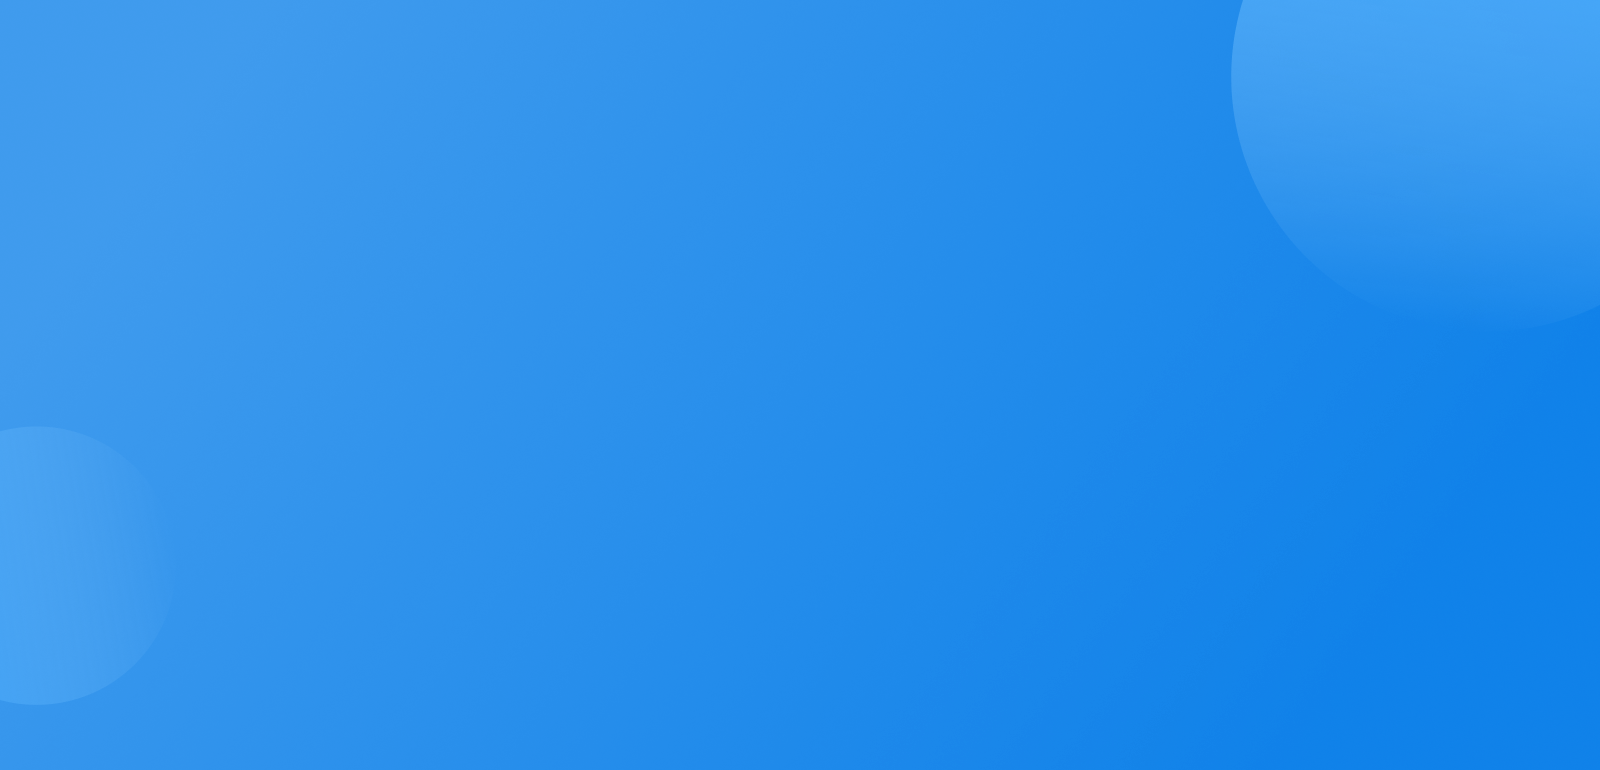
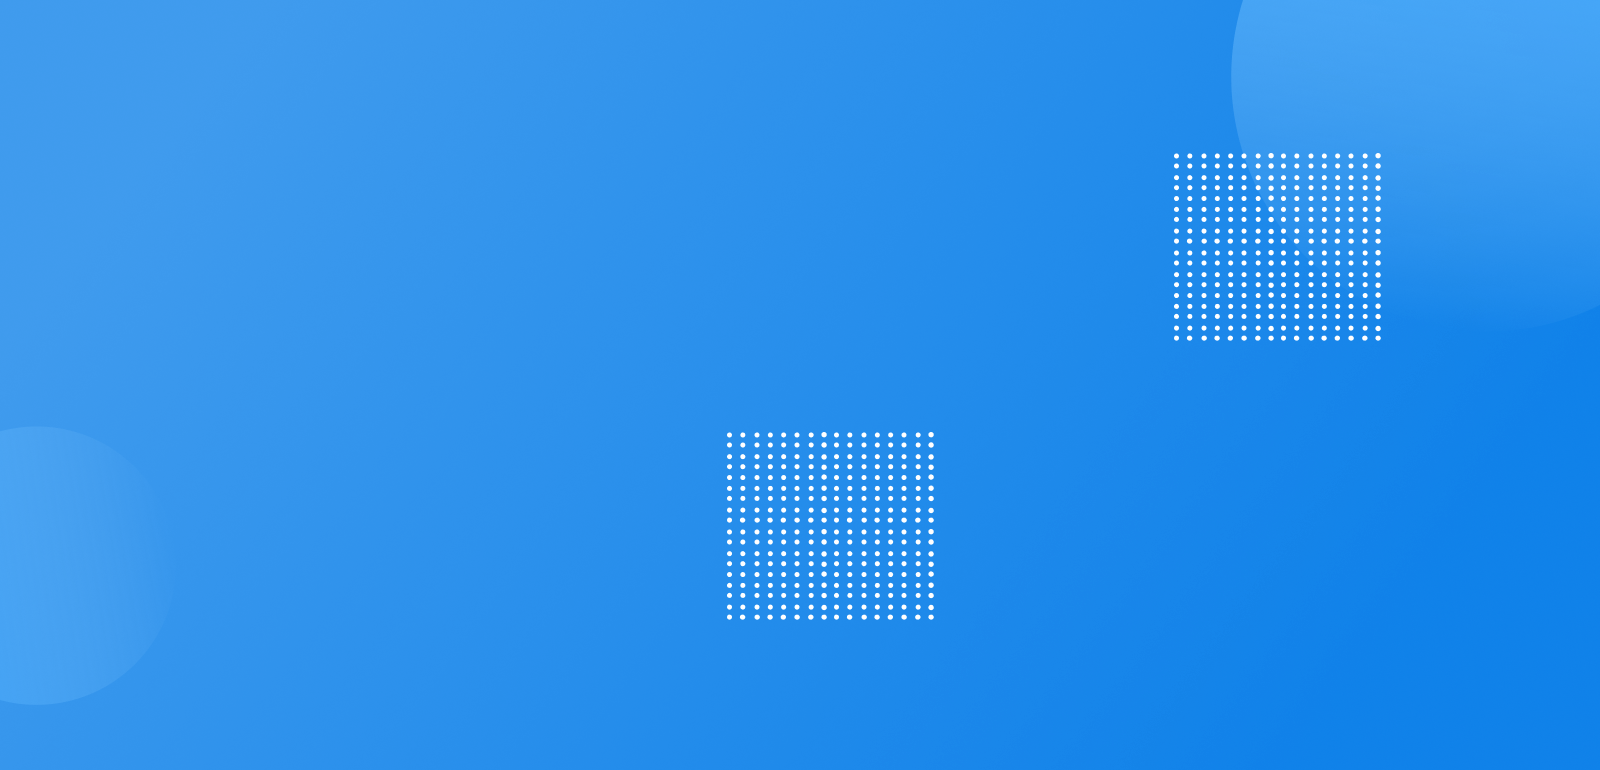
fix photos + floating menu

Changed region(s): [[0.4375, 0.561, 0.5938, 0.8104], [0.7188, 0.187, 0.875, 0.4364]]

diff --git a/src/components/FrontPage/FrontPage.jsx b/src/components/FrontPage/FrontPage.jsx
@@ -8,6 +8,7 @@ import aboutLogo from "../../img/frontpage/about-logo.svg"
 import Switch from '../Custom/Switch/Switch'
 import Card from '../Custom/Card/Card'
 import Slider from '../Custom/Slider/Slider'
+import fscreenMan from "../../img/frontpage/fscreen-man.png"
 const FrontPage = () => {
   const [switchActive, setSwitchActive] = useState(false)
   return (
@@ -24,12 +25,13 @@ const FrontPage = () => {
                 <div>Case Manager</div>
               </div>
               <div className="FrontPage-fscreen-content-text-desc">
-                Lorem ipsum dolor, sit amet consectetur adipisicing elit.
-                Nulla, earum aut odio voluptates provident soluta
+                Lorem ipsum dolor sit amet consectetur.
+                Sit venenatis eu feugiat adipiscing tortor odio in.
+                Sem vitae vulputate placerat facilisis nascetur dolor.
               </div>
             </section>
             <section className='FrontPage-fscreen-content-img'>
-
+              <img src={fscreenMan} alt="Декорація" />
             </section>
           </div>
         </div>
@@ -51,13 +53,13 @@ const FrontPage = () => {
       </div>
 
       <div className="FrontPage-about">
-        
+
         <span className="FrontPage-about-title">Case Manager</span>
         <div className="FrontPage-about-img">
           <img src={aboutLogo} alt="Case Manager" />
         </div>
         <div className="FrontPage-about-bottom">
-        <div className="FrontPage-about-bottom-imgleft"></div>
+          <div className="FrontPage-about-bottom-imgleft"></div>
 
           <span className="FrontPage-about-bottom-text">
             Lorem ipsum dolor sit amet consectetur. Magna tincidunt diam tellus pellentesque eu odio integer faucibus.
@@ -77,14 +79,14 @@ const FrontPage = () => {
           <div className="FrontPage-subscriptions-inner-switch">
             <div className="FrontPage-subscriptions-inner-switch-inner">
               <span>Помісячно</span>
-              <Switch toggle={(active)=>{setSwitchActive(active)}}/>
+              <Switch toggle={(active) => { setSwitchActive(active) }} />
               <span>На рік</span>
             </div>
             <div className='FrontPage-subscriptions-inner-switch-sale'>Знижка {pageData.yearDiscount}%</div>
           </div>
           <div className="FrontPage-subscriptions-inner-cards">
-            {pageData.subscriptions.map((item,index)=>{
-              return <Card key={index} item={item} switchActive={switchActive}/>
+            {pageData.subscriptions.map((item, index) => {
+              return <Card key={index} item={item} switchActive={switchActive} />
             })}
           </div>
         </div>
@@ -92,7 +94,7 @@ const FrontPage = () => {
 
       <div className="FrontPage-slider">
         <div className="FrontPage-slider-title">Відгуки</div>
-        <Slider/>
+        <Slider />
       </div>
     </div>
   )

diff --git a/src/components/FrontPage/FrontPage.scss b/src/components/FrontPage/FrontPage.scss
@@ -10,16 +10,17 @@ background-color: #f4f7fa;
         background-size: cover;
         display: flex;
         flex-direction: column;
+        overflow: hidden;
         &-content {
             width: 100%;
             display: flex;
             align-items: center;
-            justify-content: space-between;
+            gap: 50px;
 
             &-wrap {
                 width: var(--width);
                 margin: auto;
-                height: calc(100% - 73.2px);
+                height: 100vh;
                 display: flex;
                 align-items: center;
             }
@@ -45,10 +46,16 @@ background-color: #f4f7fa;
             }
 
             &-img {
-                width: 500px;
-                height: 300px;
+                width: 600px;
+                height: 350px;
                 background-color: #fff;
-                border-radius: 20px;
+                border-radius: 10px;
+                position: relative;
+                >img{
+                    position: absolute;
+                    top: 60px;
+                    right: 0px;
+                }
             }
         }
     }
@@ -89,9 +96,10 @@ background-color: #f4f7fa;
         &-img{
             width: var(--width);
             background: url("../../img/frontpage/about-back.png") no-repeat;
-            background-size: cover;
+            background-size: 100%;
             display: flex;
             justify-content: center;
+            height: 450px;
         }
         &-bottom{
             width: 100%;

diff --git a/src/components/Header/Header.jsx b/src/components/Header/Header.jsx
@@ -1,9 +1,19 @@
-import React from 'react'
+import React, { useState } from 'react'
 import logoImg from "../../img/logo.svg"
 import './Header.scss'
 const Header = () => {
+  const [scroll, setScroll] = useState(window.scrollY)
+  const [back, setBack] = useState(false)
+  window.addEventListener('scroll', (e) => {
+    setScroll(window.scrollY)
+    setBackground(window.scrollY)
+  })
+  const setBackground = (s) => {
+    setBack(s>100)
+  }
+
   return (
-    <header className="Header">
+    <header className="Header" style={{ background: `${back ? "#1082E9" : "transparent"}` }}>
       <div className="Header-inner">
         <div className="Header-inner-logo">
           <a href=""><img src={logoImg} alt="Логотип Case Manager" /></a>

diff --git a/src/components/Footer/Footer.jsx b/src/components/Footer/Footer.jsx
@@ -31,9 +31,10 @@ const Footer = () => {
         <div className="Footer-inner-bottom">
           <span>2024 Copyright</span>
           <div className="Footer-inner-bottom-socials">
-            <img src={facebook} alt="Facebook" />
-            <img src={instagram} alt="Instagram" />
-            <img src={telegram} alt="Telegram" />
+            <a href="" target='_blank'><img src={facebook} alt="Facebook" /></a>
+            <a href="" target='_blank'><img src={instagram} alt="Instagram" /></a>
+            <a href="" target='_blank'><img src={telegram} alt="Telegram" /></a>
+
           </div>
         </div>
       </div>

diff --git a/src/components/Header/Header.scss b/src/components/Header/Header.scss
@@ -6,6 +6,8 @@
     justify-content: center;
     color: #fff;
     position: fixed;
+    z-index: 999;
+    transition: all .3s;
     &-inner{
         width: var(--width);
         display: flex;

diff --git a/src/index.css b/src/index.css
@@ -15,7 +15,7 @@ code {
     monospace;
 }
 :root{
-  --width:65%;
+  --width:70%;
   --blue: #1082E9;
   --gray: #9B9B9B;
   --light-blue:#DDF0FF;
